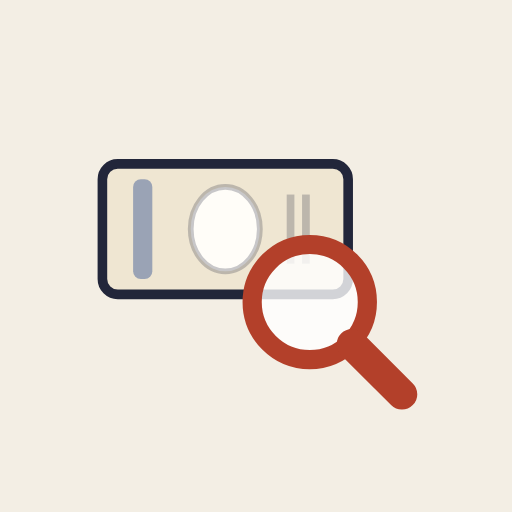
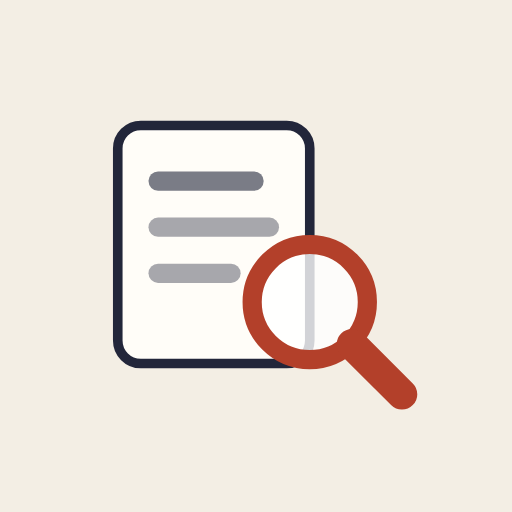
レビューを直す：潜像パール模様は資料に場所が無いので場所を書かない・アイコンからお札の形を外す・自動マージは Secret scan も待つ・引き継ぎに復習の記録・古いタブは2段目まで答える
Claude-Session: https://claude.ai/code/session_01SbNQtXPtyHxnL8j44iiC2v

Changed region(s): [[0.1875, 0.2188, 0.6875, 0.7188]]

diff --git a/gen.js b/gen.js
@@ -74,8 +74,8 @@
       t: () => "右上の「2000」：青緑から紫に色が変わる",
       x: () => "右上の「2000」：どの角度でも同じ色のまま" },
     epearl: { g: "epearl", m: "kat", name: "潜像パール模様", has: (n) => !!n.epearl,
-      t: () => "左右のもよう：「千円」と「1000」の字が浮かぶ",
-      x: () => "左右のもよう：どの角度でも、字は浮かばない" },
+      t: () => "表のもようの一部：「千円」と「1000」の字が浮かぶ",
+      x: () => "表のもようの一部：どの角度でも、字は浮かばない" },
   };
   const FIDS = Object.keys(FEAT);
 
@@ -104,7 +104,7 @@
       why: "目の不自由な人も指でわかる「識別マーク」は11本の斜めの線で、一万円券は左右のはしの真ん中、五千円券は上下のはしの真ん中、千円券は右上と左下です。" },
     { id: "ovi", lv: 2, look: "二千円券の右上の数字は、傾けると色が変わるインキです。",
       why: "二千円券の右上の「2000」は「光学的変化インキ」で、傾けると青緑から紫に色が変わります。" },
-    { id: "epearl", lv: 2, look: "2004年発行の千円券は、左右のもようにパールと潜像を組み合わせています。",
+    { id: "epearl", lv: 2, look: "2004年発行の千円券だけの「潜像パール模様」は、傾けると「千円」と「1000」が浮かびます。",
       why: "2004年発行の千円券は「潜像パール模様」で、傾けると「千円」と「1000」の字が浮かびます。" },
   ];
   const BY = Object.fromEntries(KINDS.map((k) => [k.id, k]));
